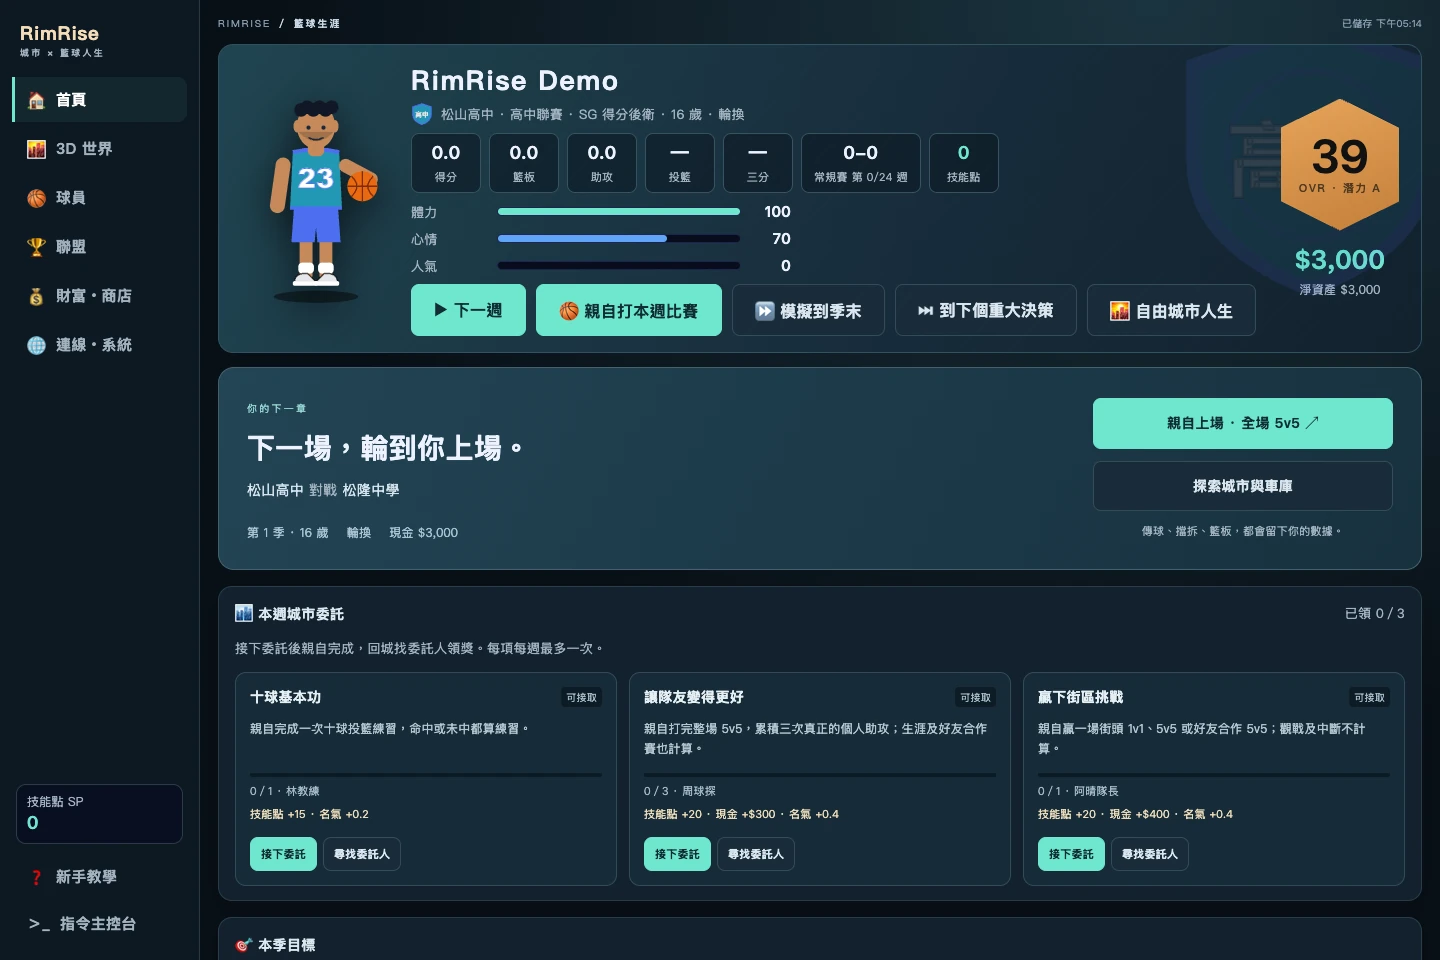
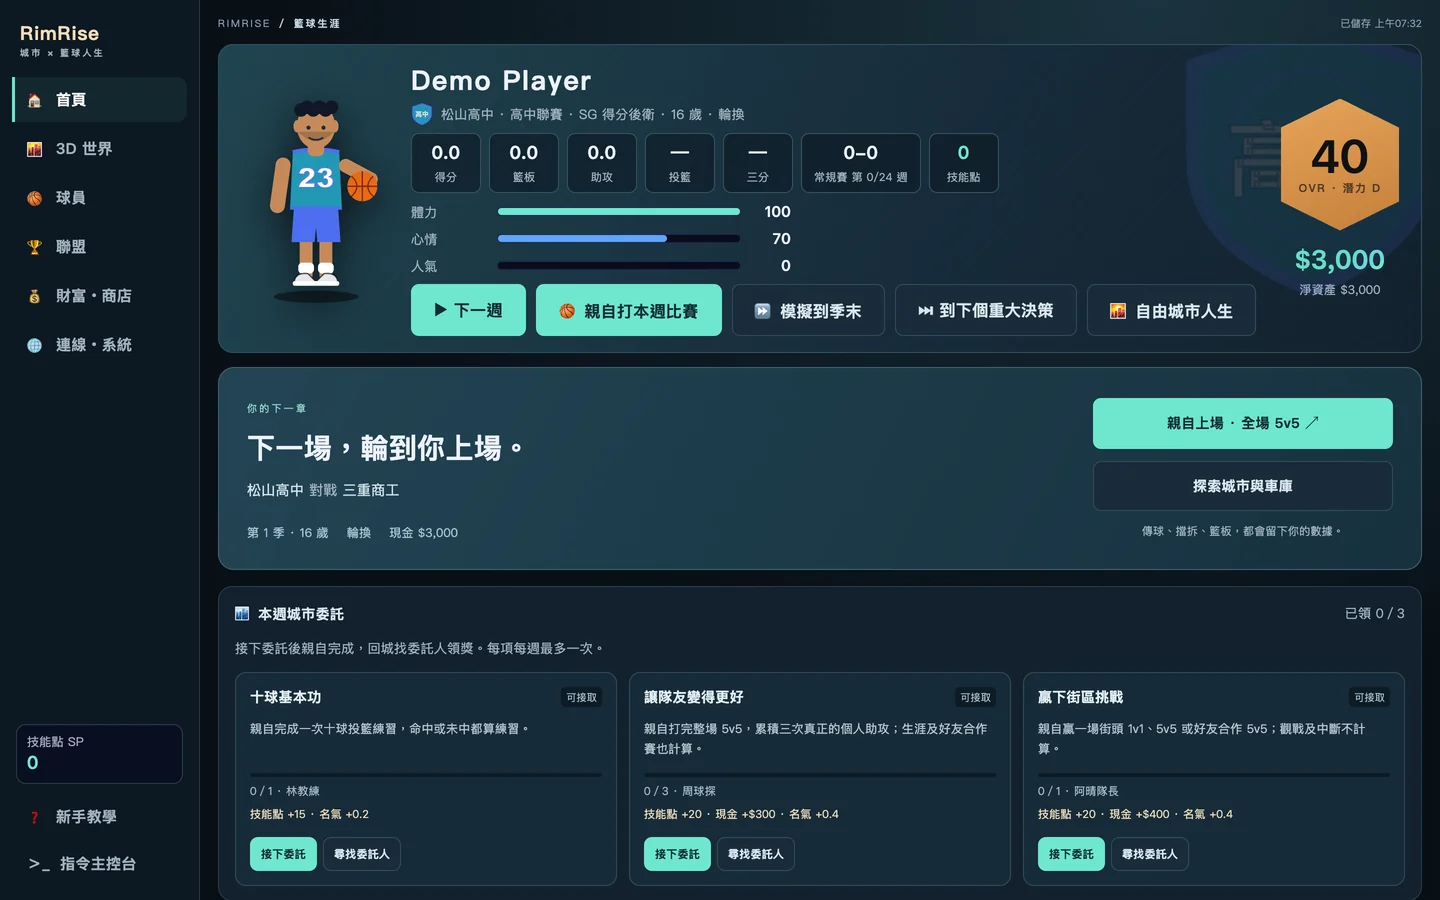
Show current RimRise browser features from the public build
Capture the live build at rimrise.onrender.com with a fresh, fictional
player: start screen with modes and eleven city roles, career dashboard,
3D city on a police duty, city-life menu, city map, wealth hub, online
street city and league standings. The 5v5 match image stays from the
earlier local build.

Add a rimrise-web-current override like the Unity one: new captions in
five languages, refreshed city-roles, wealth and online focus points
(updated in English, appended to the shorter translated lists), and a
stage note that names the capture source. Record the method in the demo
evidence notes.

diff --git a/src/data/rimrise-web-current.ts b/src/data/rimrise-web-current.ts
@@ -1,0 +1,291 @@
+import type { Locale } from "./locales";
+import type { ProjectDetailCopy } from "./projects";
+
+type Pair = [string, string];
+
+type Current = {
+  city: Pair;
+  added: Pair[];
+  focus: { cityLife: Pair; money: Pair; online: Pair };
+  stageNote: string;
+};
+
+// Captures from the public build on 22 October 2026. The 5v5 match image and
+// its caption still come from the earlier local build.
+const current: Record<Locale, Current> = {
+  en: {
+    city: [
+      "Police duty in the 3D city",
+      "A new police officer in Taipei's Wanhua district takes a patrol dispatch; the objective panel, world marker and minimap route lead to the police station 322 m away.",
+    ],
+    added: [
+      [
+        "Choose a life, then a role",
+        "The start screen offers free city life or a basketball career, eleven city roles from police officer and firefighter to delivery rider and pilot, and name, body type, position and background options.",
+      ],
+      [
+        "City life menu",
+        "Pay, rent and loans from friends; training, work vehicles, flights and pets; role changes, street incidents and gang districts; plus duties, meals, showers, rest and chats.",
+      ],
+      [
+        "City map and navigation",
+        "The full map lists districts, shops, the bank, training centre, airport and more with distances, and draws the route to the current duty.",
+      ],
+      [
+        "Wealth hub",
+        "Net worth, cash and weekly cash flow, a one-click diversified portfolio, financial news, a stock exchange, funds, businesses, property and car sponsorship.",
+      ],
+      [
+        "Online street city",
+        "A players-only online city with live player counts for Taipei, Hong Kong, Tokyo and New York, up to 16 players each, next to rooms for playing with friends.",
+      ],
+      [
+        "League standings",
+        "The high-school league table at the start of a new career, beside the player's team and contract details and the controls for the next game.",
+      ],
+    ],
+    focus: {
+      cityLife: [
+        "3D city life and roles",
+        "Explore city styles based on Taipei, Hong Kong and Tokyo as a citizen, police officer, firefighter, medic, delivery rider, taxi driver, pilot or another of eleven roles; take three-stop duties, drive, and manage a home, meals and rest.",
+      ],
+      money: [
+        "Money and off-court choices",
+        "A wealth hub with one-click diversified investing, financial news, a stock exchange with ETFs and options, funds, businesses, property and car sponsorship, alongside contracts and living costs.",
+      ],
+      online: [
+        "Play with friends online",
+        "A players-only online street city in Taipei, Hong Kong, Tokyo or New York for up to 16 players each, plus rooms, friends, chat, 3D duels and cooperative 5v5; availability depends on the game server.",
+      ],
+    },
+    stageNote:
+      "Work in progress. The newer screenshots were captured on 22 October 2026 from the public build at rimrise.onrender.com with a new, fictional player; the 5v5 match image comes from an earlier local build. Online features depend on the separate game server, and this Zevqio website does not host game rooms or player accounts.",
+  },
+  "zh-hk": {
+    city: [
+      "3D 城市中的警察勤務",
+      "新任警察在台北萬華區接下巡邏派遣；任務面板、地上標記及小地圖路線指向 322 米外的警察局。",
+    ],
+    added: [
+      [
+        "先選人生，再選身份",
+        "開始畫面可選自由城市人生或籃球生涯，十一種城市身份由警察、消防員到外送騎手及飛行員，並可設定名字、外型、位置及背景。",
+      ],
+      [
+        "城市人生選單",
+        "薪資、租金與好友借貸；培訓、工作車、飛行與寵物；轉換身份、街頭事件及幫派街區；另有接勤務、吃飯、洗澡、休息及聊天。",
+      ],
+      [
+        "城市地圖與導航",
+        "完整地圖列出各區、商店、銀行、訓練中心、機場等地點及距離，並畫出前往目前勤務的路線。",
+      ],
+      [
+        "財富中心",
+        "淨資產、現金及每週收支，一鍵分散投資、財經新聞、證券交易所、基金、事業、房市及房車贊助。",
+      ],
+      [
+        "線上街頭城市",
+        "只有真人玩家的線上城市，顯示台北、香港、東京及紐約的即時人數，每城最多 16 人，旁邊是和朋友一起玩的房間。",
+      ],
+      [
+        "聯賽戰績榜",
+        "新生涯開始時的高中聯賽排名，旁邊是球員的球隊及合約資料，以及下一場比賽的操作。",
+      ],
+    ],
+    focus: {
+      cityLife: [
+        "3D 城市生活與身份",
+        "以自由市民、警察、消防員、醫護、外送騎手、計程車司機、飛行員等十一種身份之一，探索參考台北、香港及東京的城市；接三站勤務、駕車，並打理住所、飲食及休息。",
+      ],
+      money: [
+        "財務與場外選擇",
+        "財富中心提供一鍵分散投資、財經新聞、含 ETF 及選擇權的證券交易所、基金、事業、房市及房車贊助，另有合約與生活開支。",
+      ],
+      online: [
+        "與朋友線上同玩",
+        "只有真人玩家的線上街頭城市，可選台北、香港、東京或紐約，每城最多 16 人；另有房間、好友、聊天、3D 單挑及合作 5v5，是否可用取決於遊戲伺服器。",
+      ],
+    },
+    stageNote:
+      "開發中。較新的截圖於 2026 年 10 月 22 日以新建的虛構球員，從公開版本 rimrise.onrender.com 擷取；5v5 比賽圖片來自較早的本機版本。線上功能取決於獨立的遊戲伺服器，Zevqio 網站不提供遊戲房間或玩家帳戶。",
+  },
+  "zh-cn": {
+    city: [
+      "3D 城市中的警察勤务",
+      "新任警察在台北万华区接下巡逻派遣；任务面板、地面标记及小地图路线指向 322 米外的警察局。",
+    ],
+    added: [
+      [
+        "先选人生，再选身份",
+        "开始画面可选自由城市人生或篮球生涯，十一种城市身份从警察、消防员到外卖骑手及飞行员，并可设置名字、外形、位置及背景。",
+      ],
+      [
+        "城市人生菜单",
+        "薪资、房租与好友借贷；培训、工作车、飞行与宠物；转换身份、街头事件及帮派街区；另有接勤务、吃饭、洗澡、休息及聊天。",
+      ],
+      [
+        "城市地图与导航",
+        "完整地图列出各区、商店、银行、训练中心、机场等地点及距离，并画出前往当前勤务的路线。",
+      ],
+      [
+        "财富中心",
+        "净资产、现金及每周收支，一键分散投资、财经新闻、证券交易所、基金、事业、房市及房车赞助。",
+      ],
+      [
+        "线上街头城市",
+        "只有真人玩家的线上城市，显示台北、香港、东京及纽约的实时人数，每城最多 16 人，旁边是和朋友一起玩的房间。",
+      ],
+      [
+        "联赛战绩榜",
+        "新生涯开始时的高中联赛排名，旁边是球员的球队及合同信息，以及下一场比赛的操作。",
+      ],
+    ],
+    focus: {
+      cityLife: [
+        "3D 城市生活与身份",
+        "以自由市民、警察、消防员、医护、外卖骑手、出租车司机、飞行员等十一种身份之一，探索参考台北、香港及东京的城市；接三站勤务、驾车，并打理住所、饮食及休息。",
+      ],
+      money: [
+        "财务与场外选择",
+        "财富中心提供一键分散投资、财经新闻、含 ETF 及期权的证券交易所、基金、事业、房市及房车赞助，另有合同与生活开支。",
+      ],
+      online: [
+        "与朋友在线同玩",
+        "只有真人玩家的线上街头城市，可选台北、香港、东京或纽约，每城最多 16 人；另有房间、好友、聊天、3D 单挑及合作 5v5，是否可用取决于游戏服务器。",
+      ],
+    },
+    stageNote:
+      "开发中。较新的截图于 2026 年 10 月 22 日以新建的虚构球员，从公开版本 rimrise.onrender.com 截取；5v5 比赛图片来自较早的本地版本。在线功能取决于独立的游戏服务器，Zevqio 网站不提供游戏房间或玩家账户。",
+  },
+  ja: {
+    city: [
+      "3D都市での警察勤務",
+      "台北・萬華区で新人警察官がパトロール指令を受けます。目標パネル、地面のマーカー、ミニマップの経路が322m先の警察署へ案内します。",
+    ],
+    added: [
+      [
+        "人生と役割を選ぶ",
+        "開始画面では自由な都市生活かバスケットボールのキャリアを選び、警察官・消防士から配達ライダー・パイロットまで11の役割と、名前、体型、ポジション、経歴を設定できます。",
+      ],
+      [
+        "都市生活メニュー",
+        "給料、家賃、友人からの借入、研修、仕事用の車、フライト、ペット、役割の変更、路上の出来事、ギャング地区、勤務、食事、シャワー、休憩、会話。",
+      ],
+      [
+        "都市マップとナビ",
+        "地区、店、銀行、トレーニングセンター、空港などを距離付きで一覧し、現在の勤務への経路を表示します。",
+      ],
+      [
+        "資産ハブ",
+        "純資産、現金、週ごとの収支、ワンクリック分散投資、経済ニュース、証券取引所、ファンド、事業、不動産、車のスポンサー。",
+      ],
+      [
+        "オンライン街頭都市",
+        "プレイヤーだけのオンライン都市。台北・香港・東京・ニューヨークの現在人数を表示し、各都市最大16人。友達と遊ぶルームも並びます。",
+      ],
+      [
+        "リーグ順位表",
+        "新しいキャリア開始時の高校リーグ順位。選手のチームと契約情報、次の試合への操作が並びます。",
+      ],
+    ],
+    focus: {
+      cityLife: [
+        "3D都市生活と役割",
+        "市民、警察官、消防士、救急、配達ライダー、タクシー運転手、パイロットなど11の役割から選び、台北・香港・東京をもとにした都市を探索。3か所を回る勤務、運転、住まい・食事・休息の管理。",
+      ],
+      money: [
+        "お金とコート外の選択",
+        "ワンクリック分散投資、経済ニュース、ETFやオプションを扱う証券取引所、ファンド、事業、不動産、車のスポンサーを備えた資産ハブ。契約や生活費も管理します。",
+      ],
+      online: [
+        "オンラインで友達と遊ぶ",
+        "台北・香港・東京・ニューヨークから選べるプレイヤーだけのオンライン街頭都市（各最大16人）に加え、ルーム、フレンド、チャット、3D 1on1、協力5v5。利用はゲームサーバーの状況によります。",
+      ],
+    },
+    stageNote:
+      "開発中です。新しいスクリーンショットは2026年10月22日に、新しく作った架空の選手で公開版 rimrise.onrender.com から撮影しました。5v5の試合画像は以前のローカルビルドのものです。オンライン機能は別のゲームサーバーに依存し、Zevqioのサイトはゲームルームやプレイヤーアカウントを提供しません。",
+  },
+  ko: {
+    city: [
+      "3D 도시의 경찰 근무",
+      "타이베이 완화구의 신입 경찰이 순찰 지령을 받습니다. 목표 패널, 바닥 표시, 미니맵 경로가 322m 떨어진 경찰서로 안내합니다.",
+    ],
+    added: [
+      [
+        "삶을 고르고 역할을 고르기",
+        "시작 화면에서 자유 도시 생활 또는 농구 커리어를 고르고, 경찰과 소방관부터 배달 라이더와 파일럿까지 11가지 역할과 이름, 체형, 포지션, 배경을 정합니다.",
+      ],
+      [
+        "도시 생활 메뉴",
+        "급여, 월세, 친구 대출, 훈련, 업무용 차량, 비행, 반려동물, 역할 변경, 거리 사건, 갱 구역, 근무, 식사, 샤워, 휴식, 대화.",
+      ],
+      [
+        "도시 지도와 내비게이션",
+        "구역, 상점, 은행, 훈련 센터, 공항 등을 거리와 함께 보여 주고 현재 근무까지의 경로를 그립니다.",
+      ],
+      [
+        "자산 허브",
+        "순자산, 현금, 주간 수지, 원클릭 분산 투자, 경제 뉴스, 증권 거래소, 펀드, 사업, 부동산, 차량 스폰서.",
+      ],
+      [
+        "온라인 거리 도시",
+        "실제 플레이어만 있는 온라인 도시로 타이베이, 홍콩, 도쿄, 뉴욕의 접속자 수를 보여 주며 도시마다 최대 16명입니다. 옆에는 친구와 함께하는 방이 있습니다.",
+      ],
+      [
+        "리그 순위표",
+        "새 커리어를 시작할 때의 고교 리그 순위와 선수의 팀·계약 정보, 다음 경기 조작이 함께 보입니다.",
+      ],
+    ],
+    focus: {
+      cityLife: [
+        "3D 도시 생활과 역할",
+        "시민, 경찰, 소방관, 의료진, 배달 라이더, 택시 기사, 파일럿 등 11가지 역할 중 하나로 타이베이·홍콩·도쿄를 바탕으로 한 도시를 탐험하고, 세 곳을 도는 근무와 운전, 집·식사·휴식을 관리합니다.",
+      ],
+      money: [
+        "돈과 코트 밖의 선택",
+        "원클릭 분산 투자, 경제 뉴스, ETF와 옵션을 다루는 증권 거래소, 펀드, 사업, 부동산, 차량 스폰서를 갖춘 자산 허브와 계약·생활비 관리.",
+      ],
+      online: [
+        "친구와 온라인 플레이",
+        "타이베이, 홍콩, 도쿄, 뉴욕 중 고르는 플레이어 전용 온라인 거리 도시(도시당 최대 16명)와 방, 친구, 채팅, 3D 1대1, 협동 5v5. 이용 여부는 게임 서버에 따라 다릅니다.",
+      ],
+    },
+    stageNote:
+      "개발 중입니다. 새 스크린샷은 2026년 10월 22일 새로 만든 가상의 선수로 공개 빌드 rimrise.onrender.com에서 촬영했습니다. 5v5 경기 이미지는 이전 로컬 빌드입니다. 온라인 기능은 별도 게임 서버에 의존하며 Zevqio 웹사이트는 게임 방이나 플레이어 계정을 제공하지 않습니다.",
+  },
+};
+
+// English already has these three focus items and they are updated in place;
+// the shorter translated lists in locales.ts gain them at the end.
+const replacedTitles: Record<keyof Current["focus"], string> = {
+  cityLife: "3D city life",
+  money: "Money and off-court choices",
+  online: "Play with friends online",
+};
+
+export function getCurrentWebCopy(
+  locale: Locale,
+  original: Omit<ProjectDetailCopy, "overview" | "focus" | "gallery"> & {
+    overview: readonly string[];
+    focus: ReadonlyArray<readonly [string, string]>;
+    gallery: ReadonlyArray<readonly [string, string]>;
+  },
+): ProjectDetailCopy {
+  const update = current[locale];
+  const focus: [string, string][] = original.focus.map(
+    ([title, description]) => [title, description],
+  );
+  for (const key of Object.keys(replacedTitles) as (keyof Current["focus"])[]) {
+    const index = focus.findIndex(([title]) => title === replacedTitles[key]);
+    if (index >= 0) focus[index] = update.focus[key];
+    else focus.push(update.focus[key]);
+  }
+  const match = original.gallery[1];
+  return {
+    ...original,
+    overview: [...original.overview],
+    focus,
+    gallery: [update.city, [match[0], match[1]], ...update.added],
+    stageNote: update.stageNote,
+  };
+}

diff --git a/src/data/projects.ts b/src/data/projects.ts
@@ -32,8 +32,14 @@ export const projectImageSizes: Record<string, [number, number]> = {
   "/images/projects/rimrise-unity-pause.webp": [1280, 720],
   "/images/projects/rimrise-unity-city.png": [1280, 720],
   "/images/projects/rimrise-unity-home.png": [1280, 720],
-  "/images/projects/rimrise-web-career.webp": [1440, 960],
-  "/images/projects/rimrise-web-city.webp": [1440, 960],
+  "/images/projects/rimrise-web-career.webp": [1440, 900],
+  "/images/projects/rimrise-web-city.webp": [1440, 900],
+  "/images/projects/rimrise-web-create.webp": [1440, 900],
+  "/images/projects/rimrise-web-city-life.webp": [1440, 900],
+  "/images/projects/rimrise-web-city-map.webp": [1440, 900],
+  "/images/projects/rimrise-web-wealth.webp": [1440, 900],
+  "/images/projects/rimrise-web-online.webp": [1440, 715],
+  "/images/projects/rimrise-web-league.webp": [1440, 900],
   "/images/projects/rimrise-web-gameplay.webp": [1440, 960],
 };
 
@@ -120,6 +126,12 @@ export const projectPages: ProjectPage[] = [
     screenshots: [
       "/images/projects/rimrise-web-city.webp",
       "/images/projects/rimrise-web-gameplay.webp",
+      "/images/projects/rimrise-web-create.webp",
+      "/images/projects/rimrise-web-city-life.webp",
+      "/images/projects/rimrise-web-city-map.webp",
+      "/images/projects/rimrise-web-wealth.webp",
+      "/images/projects/rimrise-web-online.webp",
+      "/images/projects/rimrise-web-league.webp",
     ],
     tools: ["JavaScript", "Three.js", "WebGL", "Node.js", "WebSocket"],
     specifications: [

diff --git a/tests/e2e/site.spec.ts b/tests/e2e/site.spec.ts
@@ -79,7 +79,7 @@ for (const slug of ["rimrise-unity", "rimrise-web", "bigdeal", "song-guess"]) {
         ),
       ).toBe(true);
       await expect(page.locator(".game-image-link")).toHaveCount(
-        slug === "rimrise-unity" ? 10 : 3,
+        slug === "rimrise-unity" ? 10 : slug === "rimrise-web" ? 9 : 3,
       );
       const results = await new AxeBuilder({ page })
         .withTags(["wcag2a", "wcag2aa", "wcag21aa", "wcag22aa"])

diff --git a/docs/DEMO_EVIDENCE.md b/docs/DEMO_EVIDENCE.md
@@ -70,3 +70,7 @@ Source snapshot: `bf86a8c1853b976cdba95610fd5515ce46b5a5b9` (unchanged since the
 Eight dark-theme screens replace the five 19 October captures and extend the gallery: New job, Recognition (scrolled to the hardware summary, Benchmark this PC and Auto-pick), Review, the AI helper, Automation, History, Documents (custom types and remembered corrections) and phone pairing. They are `public/images/projects/docupass-current-*.webp`, encoded losslessly. The app ran through the project's own `scripts/verify_ui.py` preview mode. That mode patches settings, licence, storage and the phone receiver into a temporary directory, and does not start OCR workers, a phone receiver or cloud calls. Its 2053 interface checks ran first. Two failed: one because the 800-point screen clamped the window height, and a Settings deep-link check. A capture script then opened each screen and captured the window.
 
 To keep the screens accurate for a public page, the capture replaced several QA fixtures. The licence shows the app's real 14-day trial state instead of the QA "Pro" licence. The custom document type is labelled "Example: delivery note". History holds two jobs built from the synthetic receipt. The AI model field is left empty. The Review screen and both History jobs use the 14 October recorded OCR output for the synthetic SUNNY CAFE receipt, on the receipt cropped by the app's own `crop_document`; the recorded field boxes align with that crop. No new OCR run is claimed. The AI helper is shown switched on with the local Ollama preset; no AI request was made. The phone pairing dialog uses the QA fake receiver, so its QR code, local address and paired phones are synthetic. The Export dialog was not captured.
+
+## RimRise browser edition — public build captures 22 October 2026
+
+Eight RimRise browser screens were captured from the public build at `https://rimrise.onrender.com/` with Playwright Chromium at 1440 × 900. Each run used a fresh browser context, so no existing save was loaded. The new player is a fictional "Demo Player": a police officer in free-city mode, then a new high-school career. The screens are the start screen, career dashboard (the page hero), the 3D city on a police patrol duty, the city-life menu, the city map with route, the wealth hub, the online street city and the league standings. Chromium ran with a visible window so WebGL used the Mac's GPU (ANGLE Metal, Apple M1). Headless software rendering left the 3D scenes on the loading screen, and the game showed its software-rendering warning. The online capture is cropped above the line that prints the server's local network address; it shows zero players online at the time. No online room was joined and no other player appears. The 5v5 match image and its caption remain from the earlier local build.

diff --git a/README.md b/README.md
@@ -55,7 +55,7 @@ After editing the social preview source SVG, regenerate its PNG with `npm run so
 - `/products/basketball-clip-mixer` — Python desktop video studio with Selenium + ChromeDriver collection, Shorts player/ball tracking, a game calendar, related Playwright portfolio verification skills, and seven real Mac app captures using generated sample media and fictional demo data
 - Homepage selected projects section for game development, web, and original audio work
 - `/projects/rimrise-unity` — Unity basketball prototype with ten native QA captures, including the character studio, home Build and Buy mode, city emergencies and vehicle damage
-- `/projects/rimrise-web` — browser basketball career project
+- `/projects/rimrise-web` — browser basketball career project with captures from the public build: start screen, city roles and duties, city map, wealth hub, online street city and league
 - `/projects/bigdeal` — Hong Kong property card game prototype
 - `/projects/song-guess` — multiplayer music quiz interface prototype
 - `/about`
